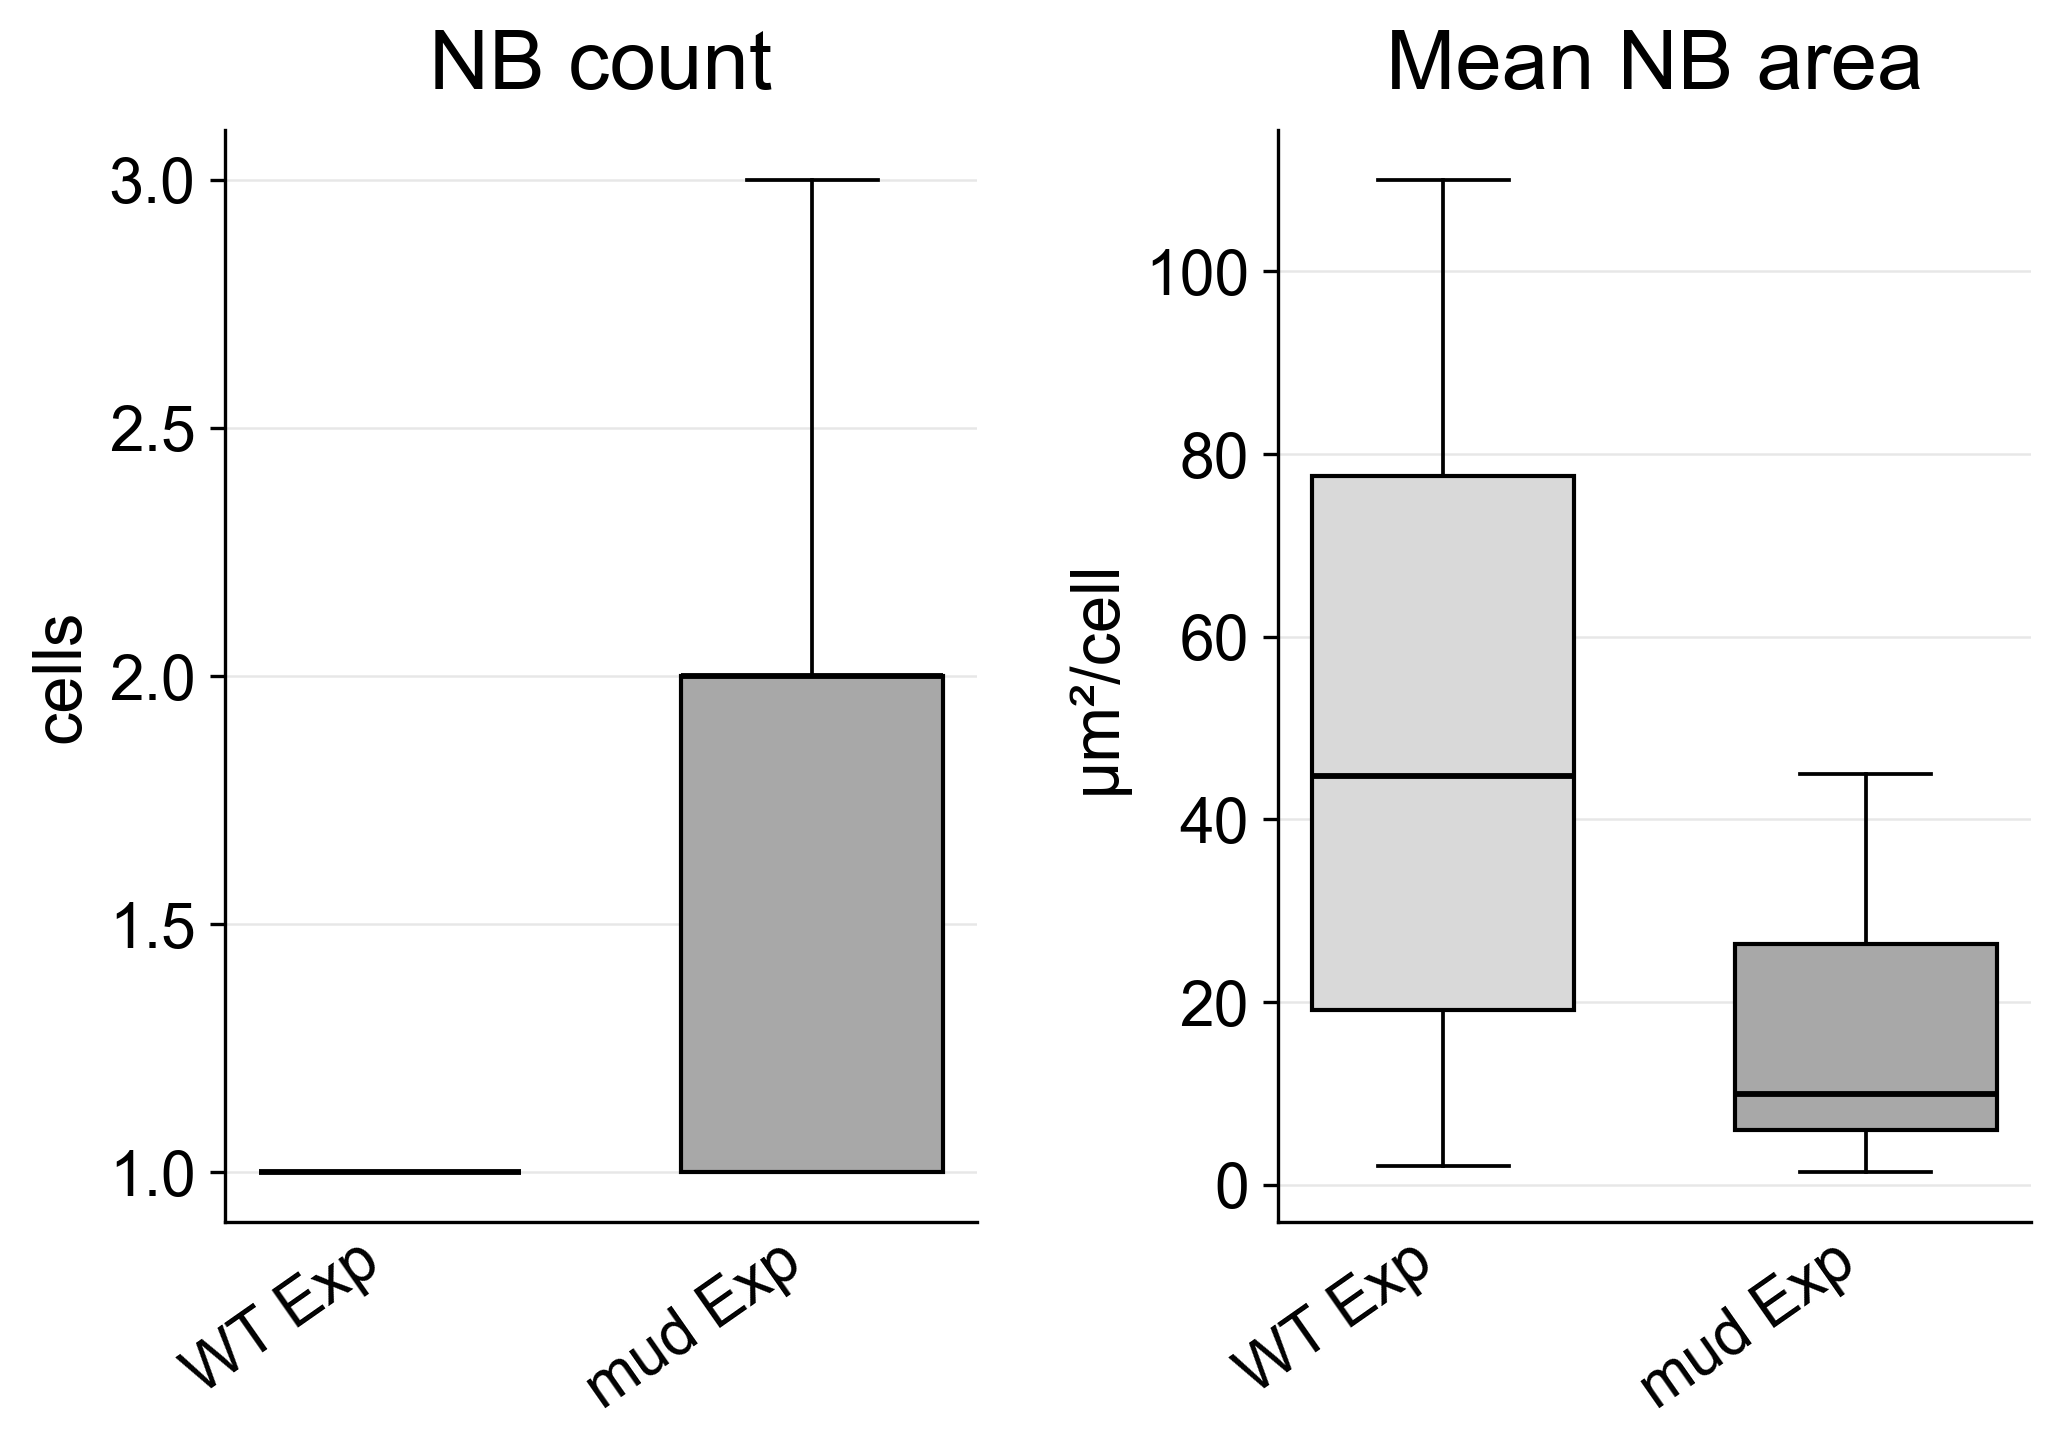
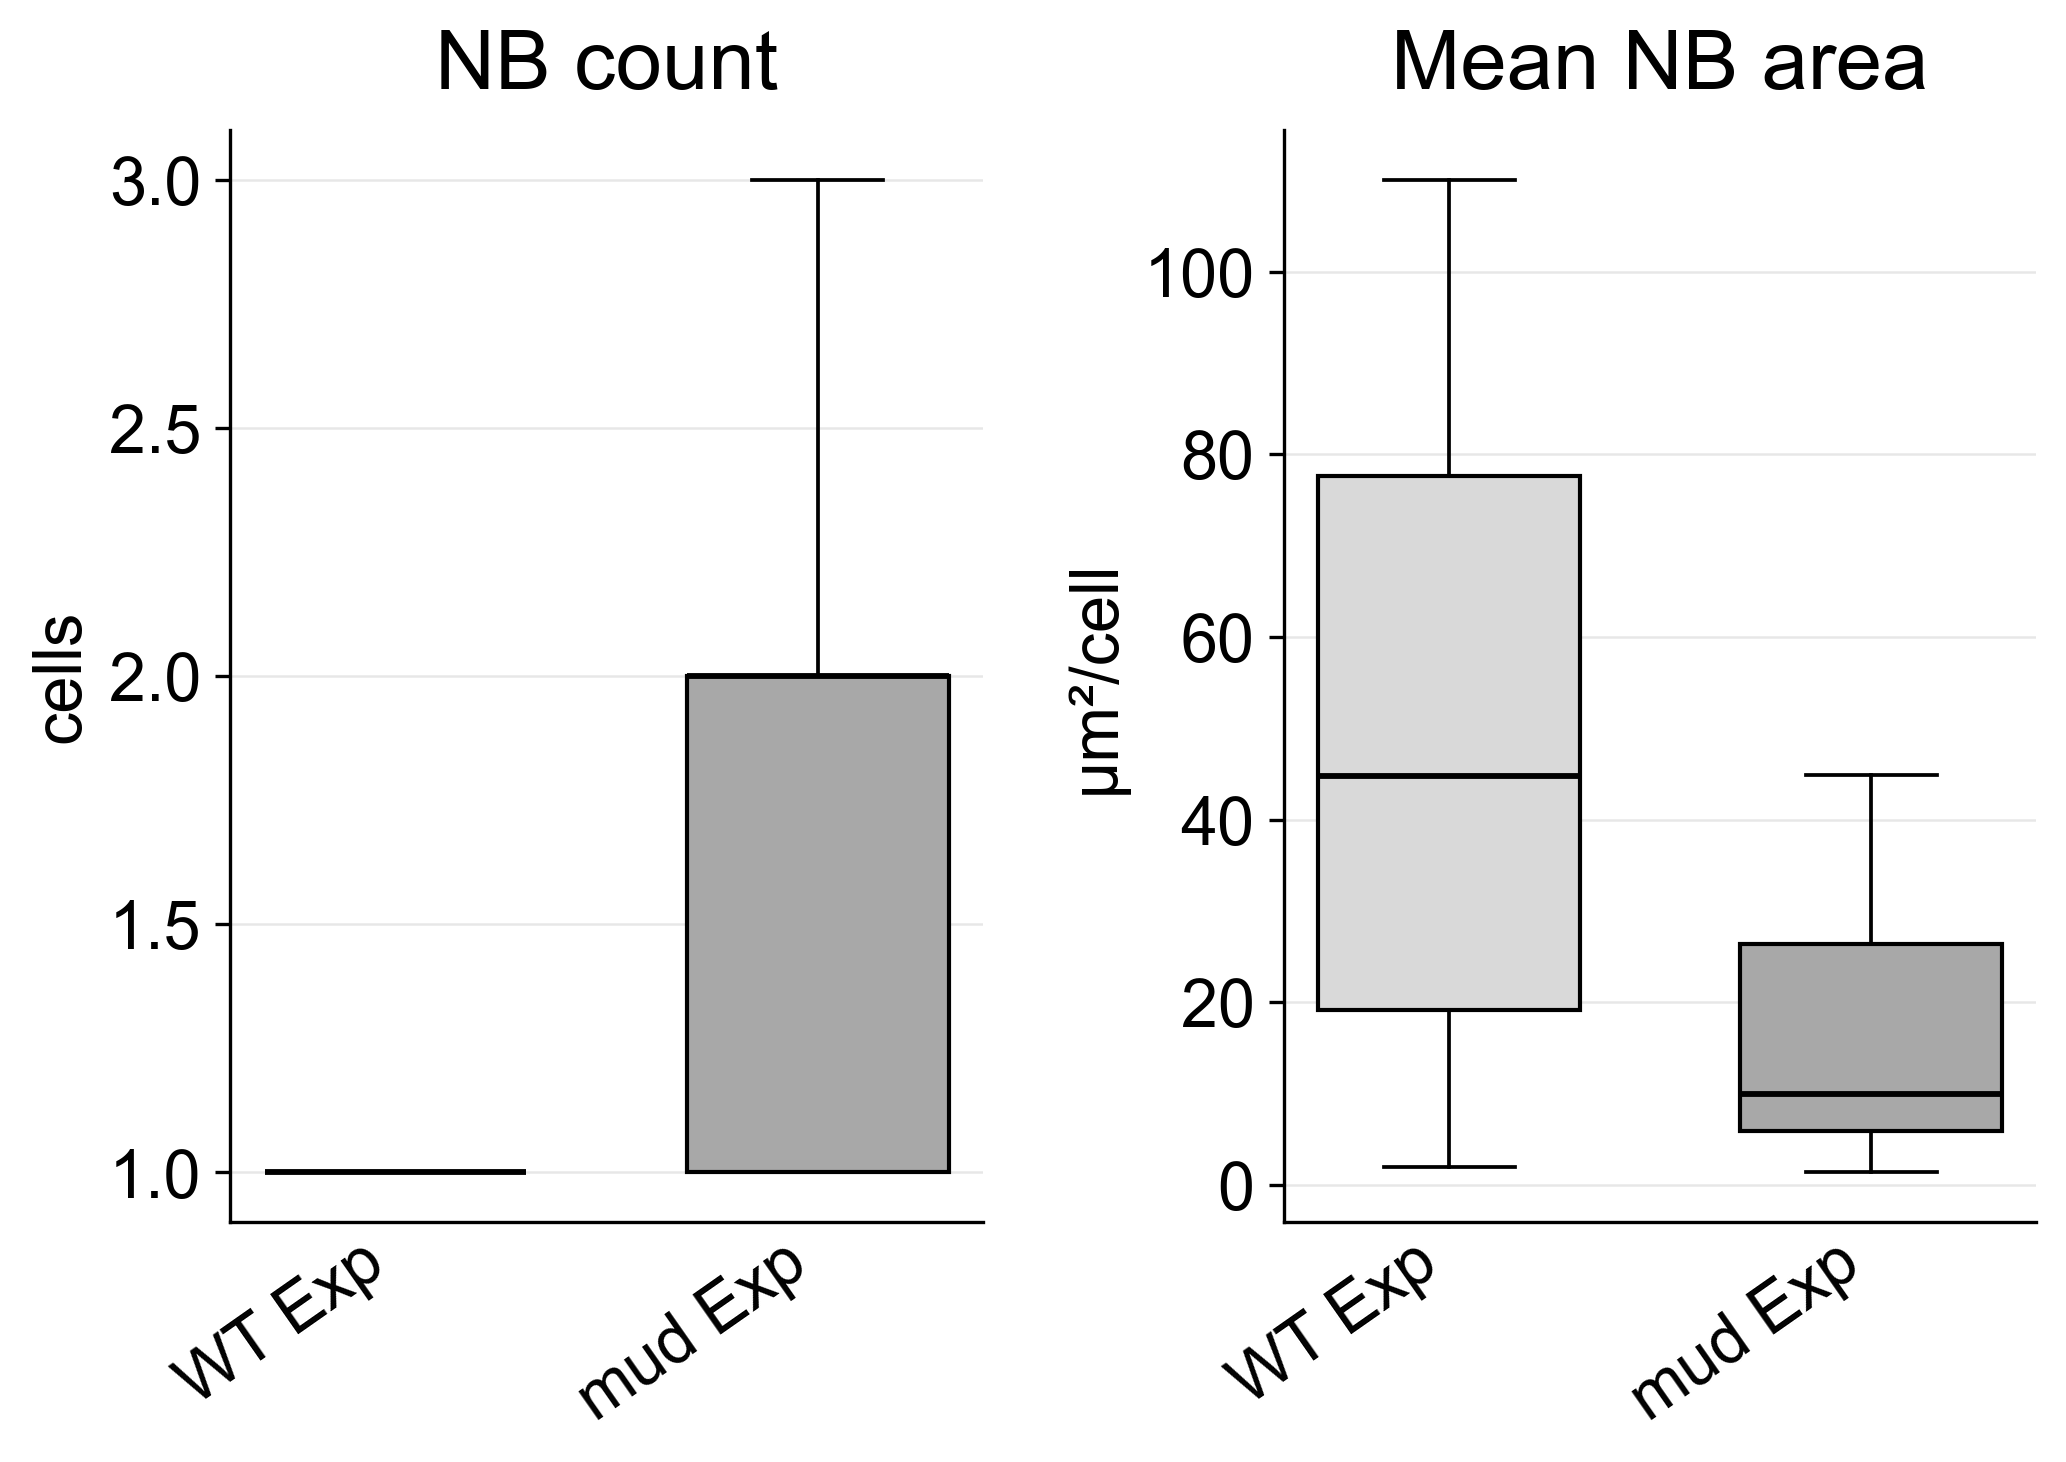
style: collapse to two-tier font system (TITLE=20, LABEL=16), fix bottom margin on metrics panel

diff --git a/docs/tex_draft/figure3_paper_figures.py b/docs/tex_draft/figure3_paper_figures.py
@@ -37,7 +37,7 @@ EXP_ANALYSIS_DIR = REPO_ROOT / "data" / "exp" / "processed" / "analysis"
 
 import sys as _sys
 _sys.path.insert(0, str(Path(__file__).resolve().parent))
-from _style import RCPARAMS as _RCPARAMS, FONT_SIZE_TITLE, FONT_SIZE_LABEL, FONT_SIZE_SMALL
+from _style import RCPARAMS as _RCPARAMS, FONT_SIZE_TITLE, FONT_SIZE_LABEL
 plt.rcParams.update(_RCPARAMS)
 
 
@@ -196,7 +196,7 @@ def representative_lineages_panel(wt_runs: pd.DataFrame, mud_runs: pd.DataFrame,
     for col, pct in enumerate(REPRESENTATIVE_PERCENTILES):
         axes[0, col].set_title(f"{int(round(pct * 100))}th percentile", pad=20, fontsize=FONT_SIZE_TITLE)
         axes[0, col].text(0.5, 1.0, "lineage area", transform=axes[0, col].transAxes,
-                          ha="center", va="bottom", fontsize=FONT_SIZE_SMALL)
+                          ha="center", va="bottom", fontsize=FONT_SIZE_LABEL)
 
     snapshots = []
     for row_idx, (row_label, condition, sim_id, rep_df) in enumerate(rows):
@@ -217,7 +217,7 @@ def representative_lineages_panel(wt_runs: pd.DataFrame, mud_runs: pd.DataFrame,
             spine.set_visible(False)
         ax.set_xlabel(
             f"run {int(row['run_id']):04d}\narea = {row['lin_area_vox'] * AREA_SCALE:.0f} µm²",
-            fontsize=FONT_SIZE_SMALL,
+            fontsize=FONT_SIZE_LABEL,
             labelpad=2,
         )
         ax.xaxis.set_label_coords(0.5, -0.03)
@@ -271,12 +271,12 @@ def endpoint_metrics_panel(
             ("mud Sim", vals(mud_runs)),
         ]
         make_boxplot_panel(ax, groups, title, unit, fill_map)
-        ax.tick_params(axis="x", labelsize=FONT_SIZE_SMALL, pad=2)
-        ax.tick_params(axis="y", labelsize=FONT_SIZE_SMALL)
+        ax.tick_params(axis="x", labelsize=FONT_SIZE_LABEL, pad=2)
+        ax.tick_params(axis="y", labelsize=FONT_SIZE_LABEL)
         for label in ax.get_xticklabels():
             label.set_rotation(35)
             label.set_ha("right")
-    fig.subplots_adjust(left=0.06, right=0.995, top=0.92, bottom=0.22, wspace=0.45)
+    fig.subplots_adjust(left=0.06, right=0.995, top=0.92, bottom=0.28, wspace=0.45)
     return fig
 
 
@@ -303,8 +303,8 @@ def regulatory_hypothesis_panel(
             ("mud Exp", vals(exp_mud)),
         ]
         make_boxplot_panel(ax, groups, title, ylabel, fill_map)
-        ax.tick_params(axis="x", labelsize=FONT_SIZE_SMALL, pad=2)
-        ax.tick_params(axis="y", labelsize=FONT_SIZE_SMALL)
+        ax.tick_params(axis="x", labelsize=FONT_SIZE_LABEL, pad=2)
+        ax.tick_params(axis="y", labelsize=FONT_SIZE_LABEL)
         for label in ax.get_xticklabels():
             label.set_rotation(35)
             label.set_ha("right")

diff --git a/docs/tex_draft/_style.py b/docs/tex_draft/_style.py
@@ -1,16 +1,15 @@
 FONT_SIZE_TITLE = 20
 FONT_SIZE_LABEL = 16
-FONT_SIZE_SMALL = 15
 
 RCPARAMS = {
     "font.family": "sans-serif",
     "font.sans-serif": ["Arial", "Helvetica", "DejaVu Sans"],
-    "font.size": FONT_SIZE_SMALL,
+    "font.size": FONT_SIZE_LABEL,
     "axes.titlesize": FONT_SIZE_TITLE,
     "axes.labelsize": FONT_SIZE_LABEL,
-    "xtick.labelsize": FONT_SIZE_SMALL,
-    "ytick.labelsize": FONT_SIZE_SMALL,
-    "legend.fontsize": FONT_SIZE_SMALL,
+    "xtick.labelsize": FONT_SIZE_LABEL,
+    "ytick.labelsize": FONT_SIZE_LABEL,
+    "legend.fontsize": FONT_SIZE_LABEL,
     "axes.linewidth": 0.8,
     "pdf.fonttype": 42,
     "ps.fonttype": 42,
